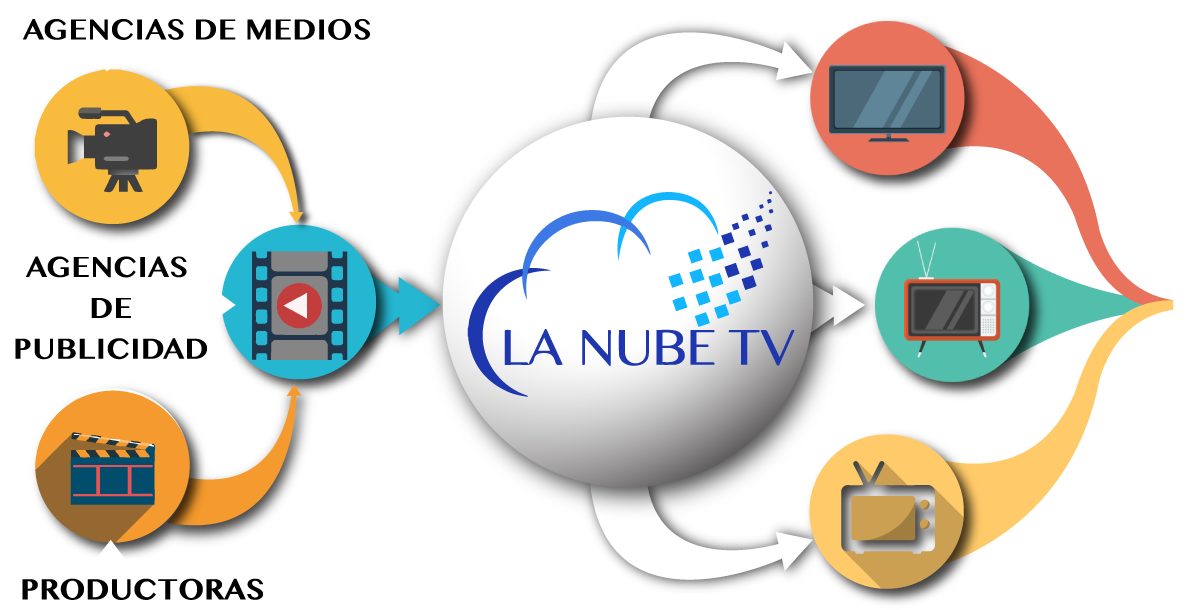
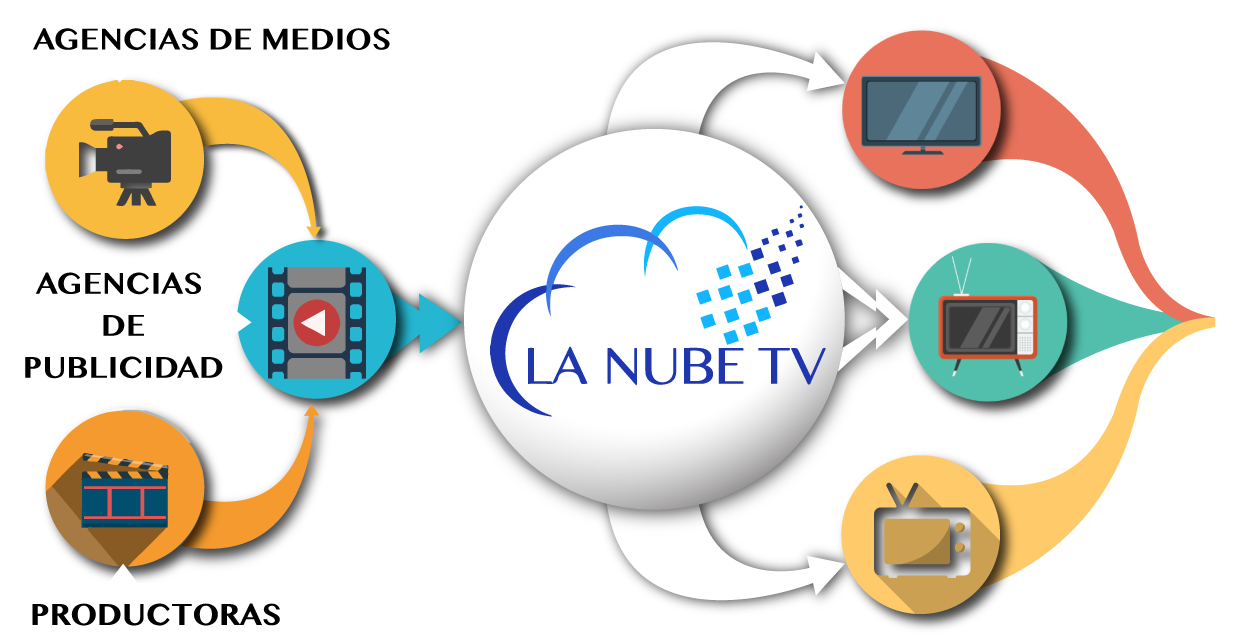
Cambiando la imagen de la distribución: Disminuciendo la sombra. Toolbar: Absolute el icono Hero: La imagen centrarla

diff --git a/src/layout/toolbar.vue b/src/layout/toolbar.vue
@@ -2,9 +2,11 @@
 #list {
   background-color: rgba(255, 255, 255, 0.99);
 }
+
 .v-list {
   background-color: rgba(255, 255, 255, 0);
 }
+
 #toolbar-title,
 #v-list__tile {
   font-family: "Khmer", cursive;
@@ -12,89 +14,57 @@
   -moz-osx-font-smoothing: grayscale;
   text-align: center;
 }
-nav nav > div{
-  padding: 0;
+
+
+.toolbar_imagen {
+  position: absolute;
+  top: 0;
+  left: 0;
+  height: 100%;
+  width: 125px;
+  background-color: white;
+}
+.toolbar_imagen::before{
+  background-color: red;
+  border-left: 20px solid red;
 }
 </style>
 
 <template>
-  <nav v-scroll="onScroll" >
+<nav v-scroll="onScroll">
 
-    <v-navigation-drawer
-      id="list"
-      app
-      temporary
-      hide-overlay
-      disable-resize-watcher
-      v-model="drawer_flag"
-      right    >
-      <List
-        :items="menus"
-        @epath="nombreRuta($event);"
-        :clases="[border_class]"      >
-        <v-list-tile slot="listName" slot-scope="{ data }" class="title">
-          <h2>{{ data.nombre }}</h2>
-        </v-list-tile>
-      </List>
-      <v-btn
-        fixed
-        bottom
-        right
-        fab
-        dark
-        color="blue"
-        @click.stop="drawer_flag = !drawer_flag;"
-      >
-        <v-icon>exit_to_app</v-icon>
+  <v-navigation-drawer id="list" app temporary hide-overlay disable-resize-watcher v-model="drawer_flag" right>
+    <List :items="menus" @epath="nombreRuta($event);" :clases="[border_class]">
+      <v-list-tile slot="listName" slot-scope="{ data }" class="title">
+        <h2>{{ data.nombre }}</h2>
+      </v-list-tile>
+    </List>
+    <v-btn fixed bottom right fab dark color="blue" @click.stop="drawer_flag = !drawer_flag;">
+      <v-icon>exit_to_app</v-icon>
+    </v-btn>
+  </v-navigation-drawer>
+  <!-- TOOLBAR -->
+  <v-toolbar fixed :color="color_toolbar" :height="height_toolbar" style="">
+    <router-link to="/" style="" class="toolbar_imagen">
+      <v-layout row wrap justify-center>
+        <img :src="src_logo" alt="alt" aspect-ratio="1" :height="`${height_toolbar}`" style="background-color: white; " />
+      </v-layout>
+    </router-link>
+    <v-spacer></v-spacer>
+    <v-toolbar-title id="toolbar-title" :class="color_text" class="title">
+      <h1>{{ titulo }}</h1>
+    </v-toolbar-title>
+    <v-spacer></v-spacer>
+    <v-toolbar-items class="hidden-sm-and-down">
+      <v-btn id="botonBar" flat v-for="menu in menus" :key="menu.nombre" :to="menu.ruta" :color="color_text.split('--')[0]">
+        {{ menu.nombre }}
       </v-btn>
-    </v-navigation-drawer>
-    <!-- TOOLBAR -->
-    <v-toolbar
-      app
-      fixed
-      :color="color_toolbar"
-      :height="height_toolbar"
-    >
-      <router-link to="/" style="height: 100%; width: 150px; background-color: white;">
-        <v-layout row wrap justify-center>
-          <img
-            :src="src_logo"
-            alt="alt"
-            aspect-ratio="1"
-            :height="`${height_toolbar}`"
-            style="background-color: white; "
-          />
-        </v-layout>
-
-      </router-link>
-      <v-spacer></v-spacer>
-      <v-toolbar-title id="toolbar-title" :class="color_text" class="title">
-        <h1>{{ titulo }}</h1>
-      </v-toolbar-title>
-      <v-spacer></v-spacer>
-      <v-toolbar-items class="hidden-sm-and-down">
-        <v-btn
-          id="botonBar"
-          flat
-          v-for="menu in menus"
-          :key="menu.nombre"
-          :to="menu.ruta"
-          :color="color_text.split('--')[0]"
-        >
-          {{ menu.nombre }}
-        </v-btn>
-      </v-toolbar-items>
-      <v-btn
-        flat
-        icon
-        :color="color_text.split('--')[0]"
-        class="hidden-md-and-up"
-        @click.stop="drawer_flag = !drawer_flag;"
-      >
-        <v-icon large>more_vert</v-icon>
-      </v-btn>
-    </v-toolbar>
-  </nav>
+    </v-toolbar-items>
+    <v-btn flat icon :color="color_text.split('--')[0]" class="hidden-md-and-up" @click.stop="drawer_flag = !drawer_flag;">
+      <v-icon large>more_vert</v-icon>
+    </v-btn>
+  </v-toolbar>
+</nav>
 </template>
 
 <script>
@@ -112,9 +82,9 @@ export default {
     return {
       titulo: "LA NUBE TV",
       border_class: "border_hover",
-      src_logo:
-      require('./../assets/logo.png'),
+      src_logo: require('./../assets/logo.png'),
       offsetTop: 0,
+
       color_text: "white--text",
       height_toolbar: "",
       color_toolbar: "",
@@ -122,7 +92,7 @@ export default {
       mod_scroll: {
         inicio: {
           color: "rgba(61,121, 228, 1)", //rgb(31, 55, 173)
-          height_toolbar: "60px",
+          height_toolbar: "64px",
           color_text: "white--text"
         },
         secundario: {

diff --git a/index.html b/index.html
@@ -2,7 +2,7 @@
 <html>
   <head>
     <meta charset="utf-8" />
-    <meta name="viewport" content="width=device-width,initial-scale=0.95" />
+    <meta name="viewport" content="width=device-width,initial-scale=0.80" />
     <link
       href="https://fonts.googleapis.com/css?family=Roboto:100,300,400,500,700,900|Material+Icons"
       rel="stylesheet"

diff --git a/src/layout/hero.vue b/src/layout/hero.vue
@@ -29,8 +29,9 @@ export default {
 </script>
 <style scoped>
 .Hero {
-  height: 100vh;
+  height: 100%;
   width: 100%;
+  min-height: 100vmin;
   background-size: cover;
   background-position: bottom ;
 }
